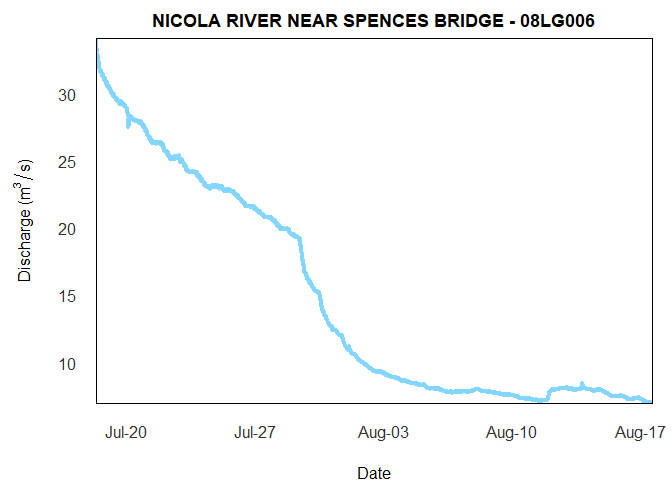
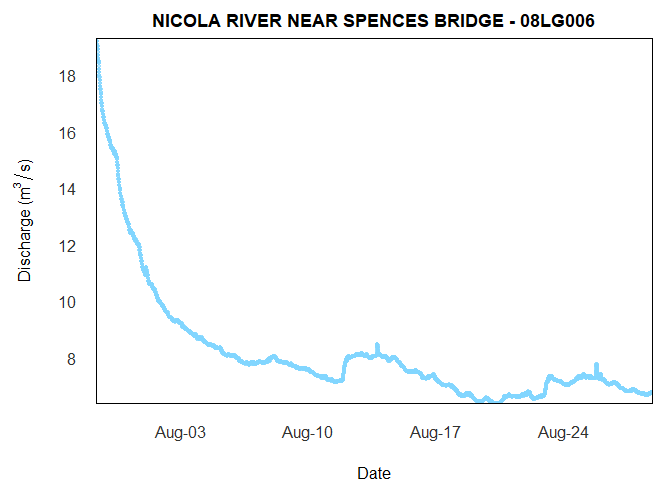
update README with ropensci docs site

diff --git a/README.md b/README.md
@@ -60,8 +60,8 @@ install directly from the rOpenSci development server:
 Usage
 -----
 
-A more thorough vignette can be found on the `tidyhydat` [CRAN
-page](https://cran.r-project.org/package=tidyhydat/vignettes/tidyhydat_an_introduction.html).
+More documentation on `tidyhydat` can found at the rOpenSci doc page:
+<a href="https://docs.ropensci.org/tidyhydat/" class="uri">https://docs.ropensci.org/tidyhydat/</a>
 
 When you install `tidyhydat`, several other packages will be installed
 as well. One of those packages, `dplyr`, is useful for data
@@ -96,22 +96,22 @@ the same conventions discussed above. Using `realtime_dd()` we can
 easily select specific stations by supplying a station of interest:
 
     realtime_dd(station_number = "08LG006")
-    #>   Queried on: 2020-08-17 16:32:42 (UTC)
-    #>   Date range: 2020-07-18 to 2020-08-17 
-    #> # A tibble: 17,436 x 8
+    #>   Queried on: 2020-08-28 22:34:06 (UTC)
+    #>   Date range: 2020-07-29 to 2020-08-28 
+    #> # A tibble: 17,580 x 8
     #>    STATION_NUMBER PROV_TERR_STATE~ Date                Parameter Value Grade
     #>    <chr>          <chr>            <dttm>              <chr>     <dbl> <chr>
-    #>  1 08LG006        BC               2020-07-18 08:00:00 Flow       34.1 <NA> 
-    #>  2 08LG006        BC               2020-07-18 08:05:00 Flow       34   <NA> 
-    #>  3 08LG006        BC               2020-07-18 08:10:00 Flow       34   <NA> 
-    #>  4 08LG006        BC               2020-07-18 08:15:00 Flow       34   <NA> 
-    #>  5 08LG006        BC               2020-07-18 08:20:00 Flow       34   <NA> 
-    #>  6 08LG006        BC               2020-07-18 08:25:00 Flow       33.9 <NA> 
-    #>  7 08LG006        BC               2020-07-18 08:30:00 Flow       33.9 <NA> 
-    #>  8 08LG006        BC               2020-07-18 08:35:00 Flow       33.8 <NA> 
-    #>  9 08LG006        BC               2020-07-18 08:40:00 Flow       33.8 <NA> 
-    #> 10 08LG006        BC               2020-07-18 08:45:00 Flow       33.7 <NA> 
-    #> # ... with 17,426 more rows, and 2 more variables: Symbol <chr>, Code <chr>
+    #>  1 08LG006        BC               2020-07-29 08:00:00 Flow       19.3 <NA> 
+    #>  2 08LG006        BC               2020-07-29 08:05:00 Flow       19.2 <NA> 
+    #>  3 08LG006        BC               2020-07-29 08:10:00 Flow       19.2 <NA> 
+    #>  4 08LG006        BC               2020-07-29 08:15:00 Flow       19.2 <NA> 
+    #>  5 08LG006        BC               2020-07-29 08:20:00 Flow       19.2 <NA> 
+    #>  6 08LG006        BC               2020-07-29 08:25:00 Flow       19.2 <NA> 
+    #>  7 08LG006        BC               2020-07-29 08:30:00 Flow       19.2 <NA> 
+    #>  8 08LG006        BC               2020-07-29 08:35:00 Flow       19.2 <NA> 
+    #>  9 08LG006        BC               2020-07-29 08:40:00 Flow       19.2 <NA> 
+    #> 10 08LG006        BC               2020-07-29 08:45:00 Flow       19.2 <NA> 
+    #> # ... with 17,570 more rows, and 2 more variables: Symbol <chr>, Code <chr>
 
 ### Plotting
 
